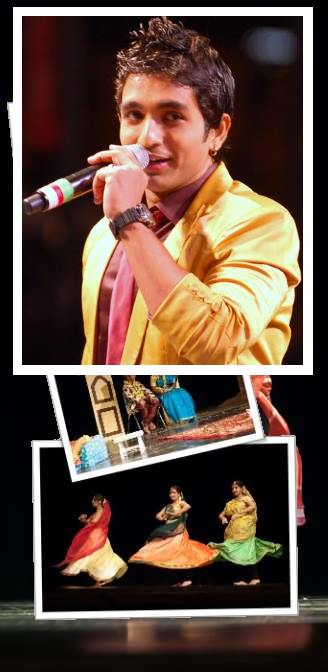
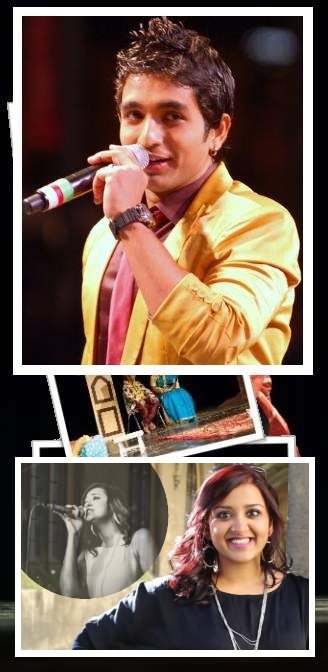
Added cultural progeam updates

Changed region(s): [[0.0305, 0.6562, 0.9756, 1.0]]

diff --git a/index.html b/index.html
@@ -173,10 +173,9 @@
                         <h4>
                           <ul>
                               <!-- <li>Pre-register online, save time</li> -->
-                              <li>Preferential seating for function</li>
-                              <li>Reserved queues for bhog and food</li>
-                              <li>Free food coupons</li>
-                              <li>Multiple tiers available</li>
+                      <li>Preferred seating at Cultural Function</li>
+                      <li>Reserved queues for Bhog, Foods & Sindoor Khela</li>
+                      <li>Free food coupons (varies by level, extra coupons available for purchase)</li>
                           </ul>
                         </h4>
                         <p>We firmly believe that it is YOUR Puja. Join us and celebrate this great festival with your family. Contact us to Sponsor, Donate or Volunteer</p>
@@ -303,12 +302,11 @@
                   </h2>
 
                   <p class="lead">
-                    Your donations allow us to make the Utsov Puja a success for everyone. They also allows us more freedom in our philanthrophic activities.
-                    We have started the Prime Program to return something back to you for your donation. The Prime Guest and Prime Patron programs reward you with better service at our events.
+Over the years we have had many well-wishers and patrons who have contributed with open heart to make Utsov Durga Puja a grand success and advance Utsov’s Philanthropic ambition a new height. So, starting this year we would like to recognize and honor those who donated at the Prime Patron and Prime Guest levels. We want you to spend your time enjoying the Puja is valuable, and we would like to offer you an environment where you would not have to wait in celebrations with your family and friends. At Utsov, <mark>“you do not have to be at the right place at the right time”</mark> TM to feel special.
                     Both programs include:
                     <ul class="lead">
-                      <li>Preferred seating at function</li>
-                      <li>Reserved queues for bhog and food</li>
+                      <li>Preferred seating at Cultural Function</li>
+                      <li>Reserved queues for Bhog, Foods & Sindoor Khela</li>
                       <li>Free food coupons (varies by level, extra coupons available for purchase)</li>
                       <li>Raffle entry for gold coins</li>
                     </ul>
@@ -318,21 +316,19 @@
 
                   <h3 class="featurette-heading"><span class="icon fa fa-star-o"></span> Prime Guest.</h3>
                   <p>
-                    The Prime Guest program is for patrons who want to enjoy the puja with family and contibute meaningfully to Utsov's success. We wanted to give you a little incentive to increase your contribution for the puja.
-                    There are three levels of the Prime Guest programs:
+                    The Prime Guest program is for patrons who want to enjoy the Puja with family and friends while wishing Utsov's success by contributing meaningfully. There are three levels of the Prime Guest programs:
                   </p>
                   <h4 class="featurette-heading"><span class="icon fa fa-certificate"></span> Prime Guest Level 1 <span class="text-muted">Donations of $150 or above</span></h4>
-                  <p>Designed for single patrons or couples. Comes with 4 dinner coupons and 4 snack coupons to cover you for the 2 days of the Utsov puja.</p>
+                  <p>Designed for single patrons or couples. Comes with 4 dinner coupons and 4 snack coupons to cover you for 2 days event at the Utsov Durga Puja.</p>
                   <h4 class="featurette-heading"><span class="icon fa fa-certificate"></span> Prime Guest Level 2 <span class="text-muted">Donations of $200 or above</span></h4>
-                  <p>Designed for families with 2 children . Comes with 4 dinner coupons for adults, , 8 snack coupons, 4 dinner coupons for children(pizza) . Children above 12 or preferring main course dinner & snacks -  suggested additional $25 per person for 2 dinner & 2 snacks.  </p>
+                  <p>Designed for families with 2 children. Comes with 4 dinner coupons for adults, 4 dinner (pizza) coupons for children, 6 snack coupons. Children above 12 or preferring main course dinner, contact the front desk or coupon seller to compensate.</p>
                   <h4 class="featurette-heading"><span class="icon fa fa-certificate"></span> Prime Guest Level 3 <span class="text-muted">Donations of $250 or above</span></h4>
-                  <p>Designed for families with 2 children and 2 seniors (parents). Comes with 8 dinner coupons for adults, 4 dinner coupons for kids (pizza), 12 snack coupons for adults/kids. Children above 12 or preferring main course dinner & snacks -  suggested additional $25 per person for 2 dinner & 2 snacks.  </p>
+                  <p>Designed for families with 2 children and 2 seniors (parents). Comes with 8 dinner coupons for adults, 4 dinner (pizza) coupons for children, 10 snack coupons. Children above 12 or preferring main course dinner, contact front desk or coupon seller to compensate.</p>
 
 
                   <h3 class="featurette-heading"><span class="icon fa fa-star-o"></span> Prime Patron.</h3>
                   <p>
-                    The Prime Patron program is designed for patrons who want to make a donation to help us with the event and our philanthropic endevours.
-                    The donation can be on behalf of an individual or an organization. Minimum donation level is $500. Please contact us directly to work with you if you have any specific needs for the event.
+The Prime Patron program is designed for patrons who want to make a donation to help Utsov with the Puja event and its philanthropic endeavors. The donation can be on behalf of an individual or an organization. Minimum donation level is $500. Please contact us directly to work with you if you have any specific needs for the event.
                   </p>
 
               </div>
@@ -428,42 +424,61 @@
                 <div class="col-md-4 padded-section-small">
                     <img class="featurette-image img-responsive img-thumbnail" src="img/musical2016.jpg" data-src="img/musical2016.jpg" alt="Durga Puja Musical Programme">
                     <p>Message from Rajdeep</p>
-                    <video controls preload=metadata width=328 height=185 poster='media/message.jpg'>
+                    <video controls preload="metadata" id="rajdeepmsg" width=328 height=185 poster='media/message.jpg'>
                       <source src='media/rajdeep_utsov.mp4' type='video/mp4'>
                       <p>Please use a modern browser to view this video.</p>
                     </video>
-                    <!--<p>** All musical programmes starts at 6 pm in the school auditorium</p> -->
+                    <br/>
+                    <p>Message from Rumeli</p>
+                    <a href="https://youtu.be/3Q8BvRU2iMw" target="_blank"><img class="featurette-image img-responsive img-thumbnail" width=328 height=185 src="img/rumelimsg.jpg"></a>
+                    <!-- <video controls width=328 height=185 id="rumelimsg" preload="none">
+                        <source type="video/youtube" src="https://www.youtube.com/watch?v=3Q8BvRU2iMw&feature=youtu.be" />
+                        <p>Please use a modern browser to view this video.</p>
+                    </video> -->
+                    <!-- <p>** All musical programmes starts at 6 pm in the school auditorium</p> -->
                 </div>
                 <div class="col-md-8">
                     <h2 class="featurette-heading">Musical Evening.
                         <span class="text-muted">Indian Classical, bollywood & fusion.</span>
                     </h2>
-                    <h4 class="featurette-heading">Rajdeep Chatterjee & Meghna Rajaram </mark> in a spellbinding musical performance at UTSOV this year <mark>with live band </mark></h4>
                     <p class="lead">
+                      <span class="icon fa fa-music"></span> <mark>Rajdeep Chatterjee & Meghna Rajaram </mark> in a spellbinding musical performance at UTSOV this year with live band, <mark> FriendzBand </mark>
+                    </p>
+                    <!-- <h4 class="featurette-heading">Rajdeep Chatterjee & Meghna Rajaram </mark> in a spellbinding musical performance at UTSOV this year <mark>with live band </mark></h4> -->
+                    <p>
                         <!--Catch <mark>  - Details to follow. /Catch -->
                         <mark>Rajdeep Chatterjee</mark> hails from Jamshedpur and has been learning music from the age of two-and-half-years under Pandit Shri Chandrakant Apte. Rajdeep graduated in Indian classical music from two prestigious universities, Allahabad & Gandharva. He was amongst the top Finalists of Zee TV’s "Sa Re Ga Ma Pa" LiL Champs in 2006 and became a household name when he ranked 4th in very popular reality singing competition, Indian Idol, Season 4 in the year 2008.  He was declared as one of the best singers of all four seasons of Indian Idol by renowned judges like Anu Malik, Javed Akhtar, Kailash Kher and Sonali Bendre. He was declared as the Jharkhand Icon by the Symbiosis group, along with famous Film director “Imtiaz Ali” (Director Of Jab We Met, Love Aaj Kal).
 
 Rajdeep made a distinct standing in the Indian music industry by recording <mark>original Hindi, Tamil and Bengali songs </mark>. He has recorded a song for Oscar and Grammy winning musician, AR Rahman in his studio for his show in Germany and also recorded a song for a Tamil Film with India’s golden voice, Shreya Ghoshal. Rajdeep's first ever <mark>Bollywood playback is in the movie "Bodyguard" </mark>. Recently he has sung the title tracks for popular film releases like Khiladi 786 and Gunday. He has done around 300 shows in India as well as abroad. His versatility as a singer is his strength and his energy and enthusiasm always makes his live performances a memorable one.
 
                     </p>
-                     <p class="lead">
+                    <p>
                         <mark>Meghna Rajaram </mark>has performed with K for Kishore winner, Arnab Chakraborty in Austin & Phoenix and with Indian Idol Sensation, Rajdeep Chatterjee. She has also performed for Sukhwinder Singh, Bappi Lahiri’s music troupe, Asha Bhonsle and her music group, Jagjit Singh and renowned classical singers Veena Sahasrabudhe & Suresh Wadekar, and Grammy Award Winner Pandit Vishwa Mohan Bhatt.
                     </p>
-                    <p class="lead">
-<!--
-                        <mark>Arfin Rana</mark> became a household name when he emerged as the 2nd Runners Up in Zee Bangla's Sa Re Ga Ma Pa 2014. Arfin has trained in Hindustani Classical Music - Rampur Gharana under the guidance of Ustad Rashid Khan. Arfin has won many awards and prizes in Folk Genre held by different eminent organizations such as Banga Sanskriti Mela, West Bengal.
-                    </p>
-                    <p class="lead">
-                        <mark>Nritya Creations Academy of Dance</mark> is an award winning Dance Institute and Performing Company started in 1994. Nritya Creations will be showcasing their talents  in Nritya Mala, a garland  of creative dances from the  Classical genre to contemporary Fusion style at Utsov Durga Puja.
-                    </p>
--->
-                    <p class="lead">
-                        Be ready for an awesome performance by our kids in the <mark>Utsov home production</mark>.
-                    </p>
-                    <p class="lead">
-                        <mark>Rumeli</mark> and her newly formed dance group of New Jersey – “Rumeli & Rhythm”  with a team of talented & motivated dancers from NJ will perform "Aanandadhara - A stream of divine bliss" to echo our worship of Goddess Durga.
+
+                    <p>
+                      <mark>FriendzBand</mark> is a team of like-minded musicians who enjoy performing popular Indian music. Members of the band have accompanied renowned artists like Manna Dey, Bappi Lahiri, Kavita Krishnamurthy and Sadhna Sargam - to name a few. Each of them comes with many years of formal music training behind them. They have been enthralling audiences around the country with their lively brand of music for more than 15 years. They came together with Rajdeep in 2010 and have been happy to join him in concert on multiple US tours, ever since.
+                      <br/>The band is represented by the following musicians:
+                      <ul>
+                      <li>Guitar: Ranjan Ray Chaudhuri</li>
+                      <li>Drums:  Danny Williams</li>
+                      <li>Precussions: Makarand Utpat</li>
+                      <li>Keyboard: Atish Mitra</li>
+                      </ul>
                     </p>
 
+                    <p class="lead">
+                        <span class="icon fa fa-music"></span> Virtuoso dance performance by <mark>Rumeli & Rhythm</mark>
+                    </p>
+                    <p>
+                        <mark>Rumeli</mark> and her newly formed dance group of New Jersey – “Rumeli & Rhythm”  with a team of talented & motivated dancers from NJ will perform "<a href="https://youtu.be/3Q8BvRU2iMw">Aanandadhara - A stream of divine bliss</a>" to echo our worship of Goddess Durga.
+                    </p>
+                    <p class="lead">
+                        <span class="icon fa fa-music"></span> Unmissable <mark>Utsov home production</mark> by Utsov kids.
+                    </p>
+                    <p>
+                      Be ready for an awesome performance by our kids. They have been working hard to entertain you.
+                    </p>
                 </div>
             </div>
 
@@ -606,11 +621,11 @@ Rajdeep made a distinct standing in the Indian music industry by recording <mark
                     <!--<h4 class="featurette-heading"><span class="text-muted">coming soon...</span></h4>-->
                     <p class="lead">The following activities are open to all adults. Anyone can participate, with no direct or indirect association with Utsov.
                         <ul class="list-unstyled">
-                            <li>
+                            <!-- <li>
                                 <h4><span class="icon fa fa-circle-o"></span> Photography Competition. <small class="text-danger">Online Submission open for 2016.</small></h4>
-                            </li>
+                            </li> -->
                             <li>
-                                <h4><span class="icon fa fa-circle-o"></span> Conch Shell Blowing Contest  - Sunday, October 9th, 4:30 PM. <small>Registration by October 3rd.</small></h4>
+                                <h4><span class="icon fa fa-circle-o"></span> Conch Shell Blowing Contest  - Sunday, October 9th, 5:30 PM. <small>Registration by October 3rd.</small></h4>
                             </li>
                         </ul>
                         <div class="padded-section-small pull-right">
